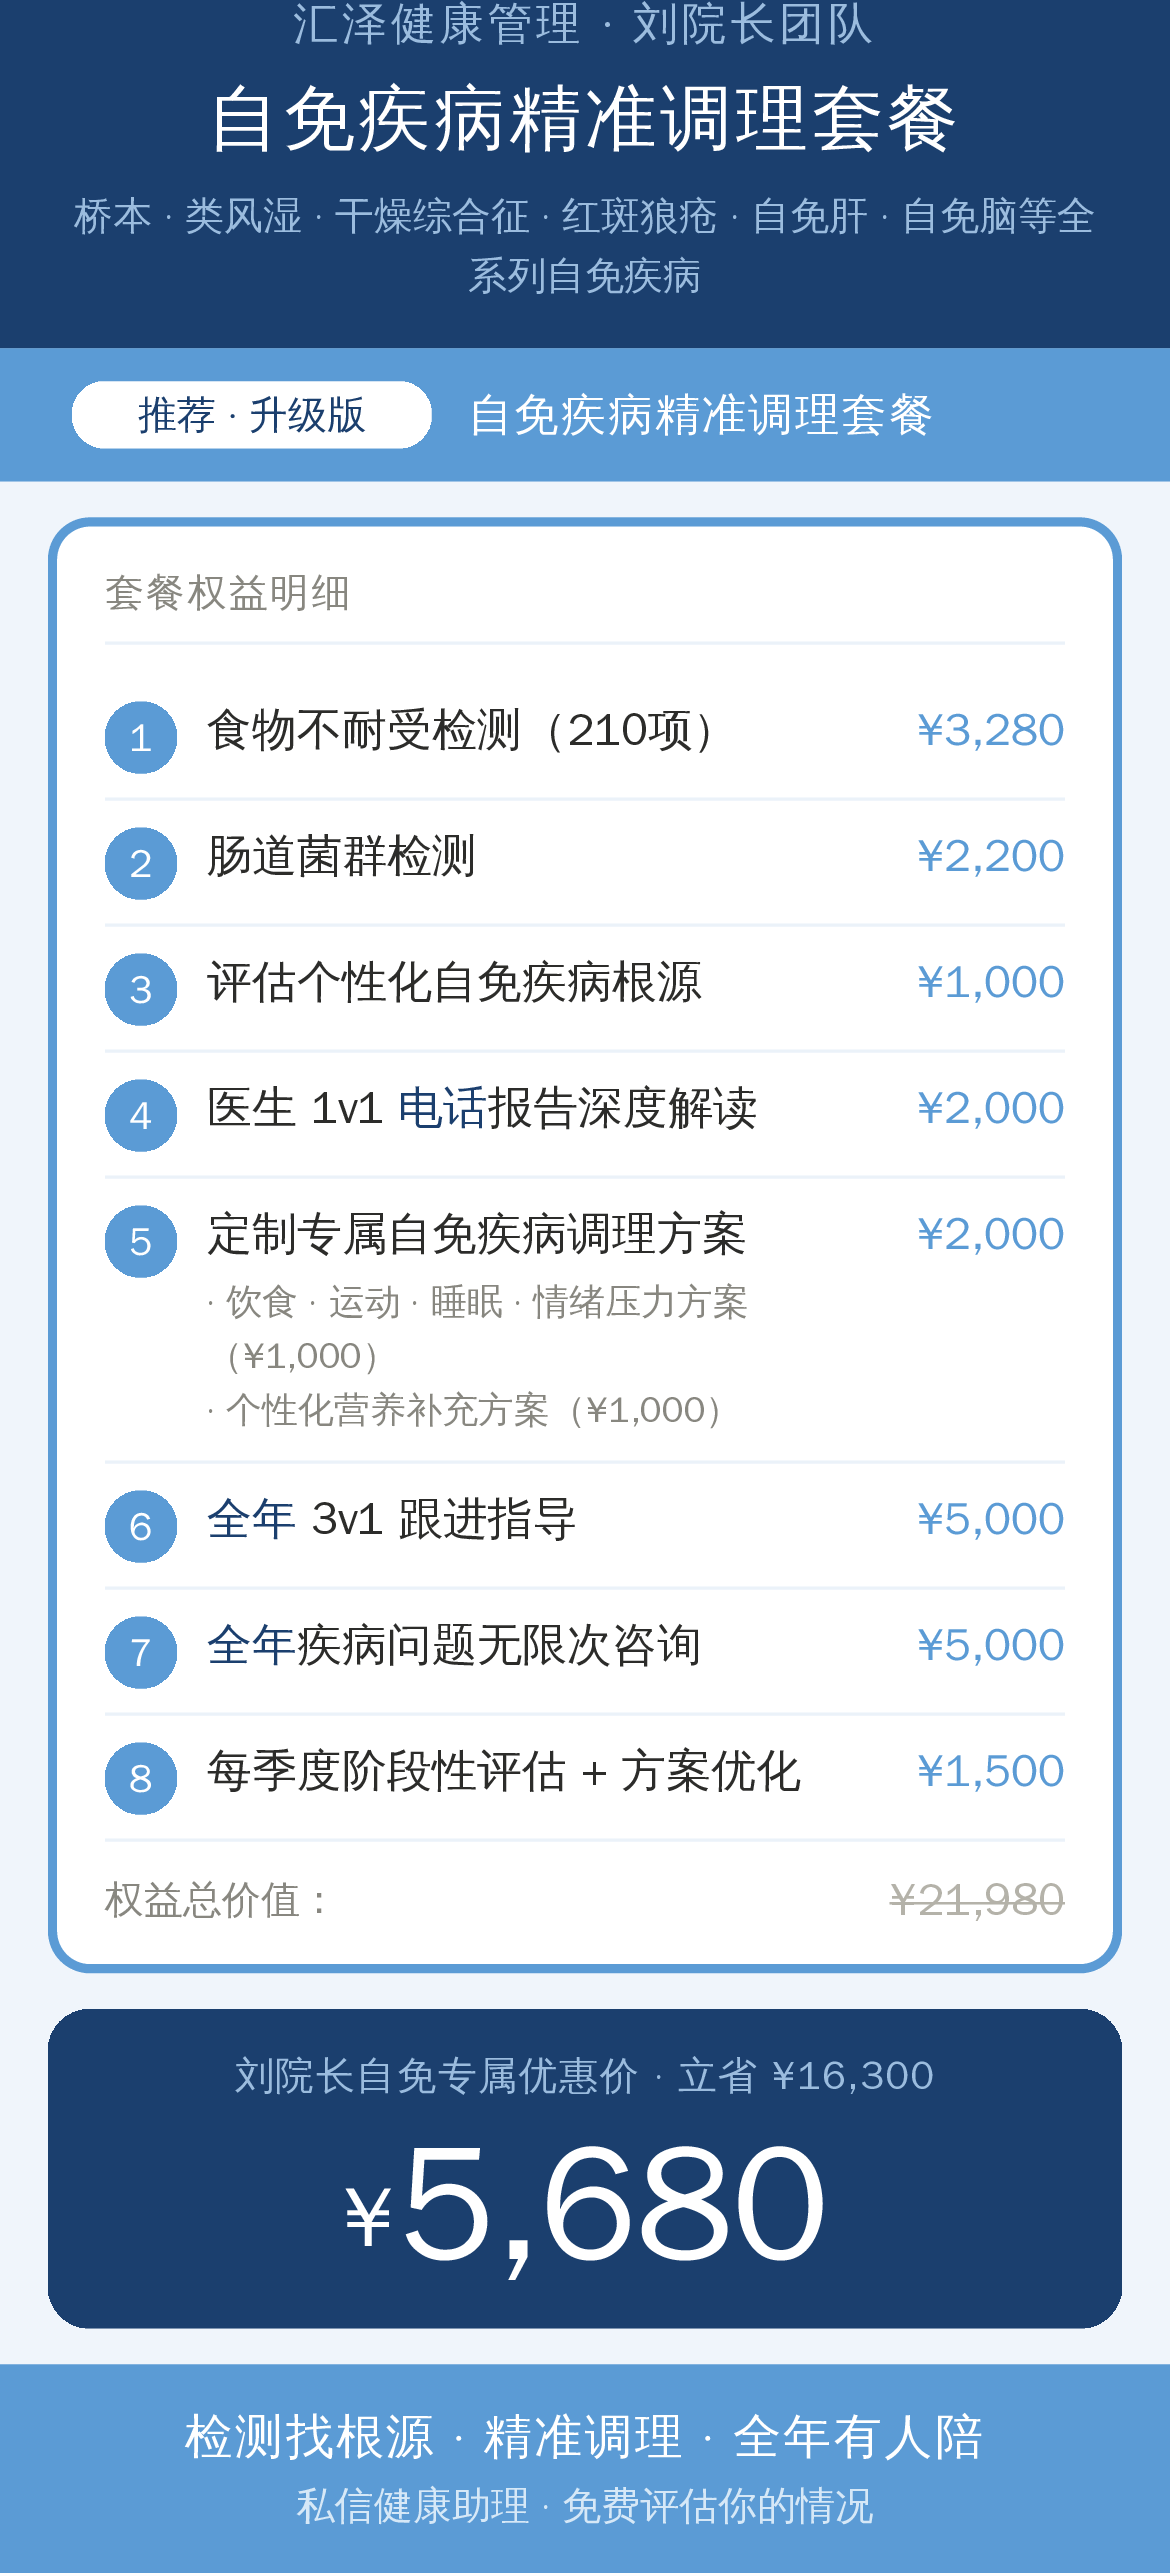
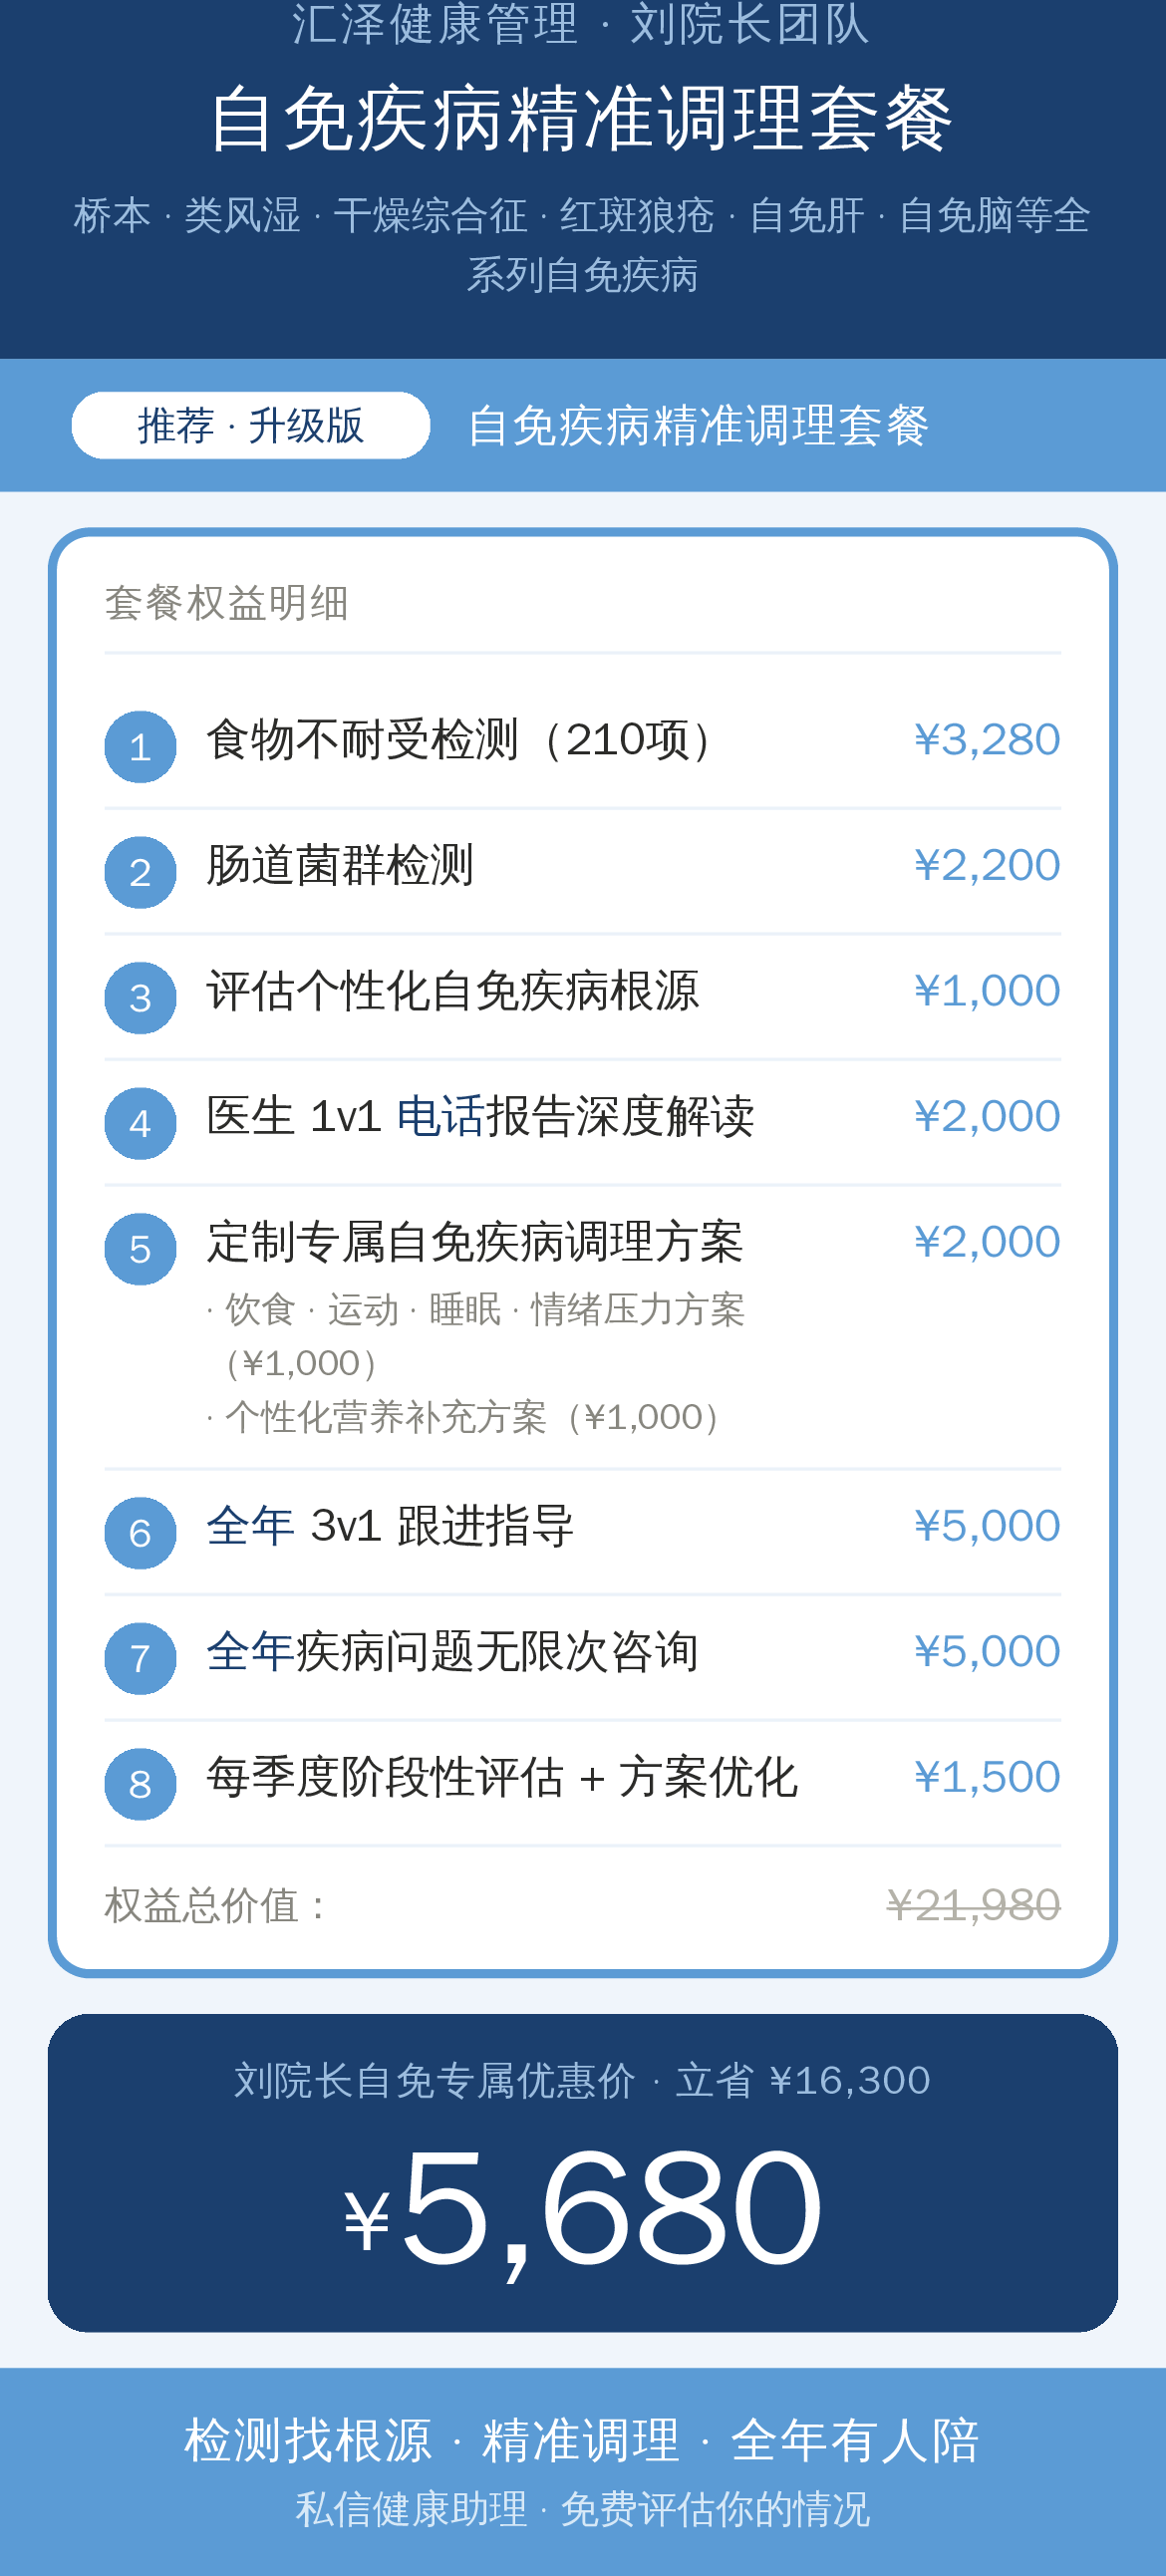
Increase header top padding for better visual breathing room
https://claude.ai/code/session_01LToeD63Un3YZP1m35jzG7Q

diff --git a/package-basic.html b/package-basic.html
@@ -22,7 +22,7 @@
 
   .header {
     background: #1B3F6E;
-    padding: 16px 24px 14px;
+    padding: 28px 24px 18px;
     text-align: center;
   }
   .header-brand {

diff --git a/package-compare.html b/package-compare.html
@@ -22,7 +22,7 @@
 
   .header {
     background: #1B3F6E;
-    padding: 16px 24px 14px;
+    padding: 28px 24px 18px;
     text-align: center;
   }
   .header-brand {

diff --git a/package-upgrade.html b/package-upgrade.html
@@ -23,7 +23,7 @@
   /* Header */
   .header {
     background: #1B3F6E;
-    padding: 16px 24px 14px;
+    padding: 28px 24px 18px;
     text-align: center;
   }
   .header-brand {